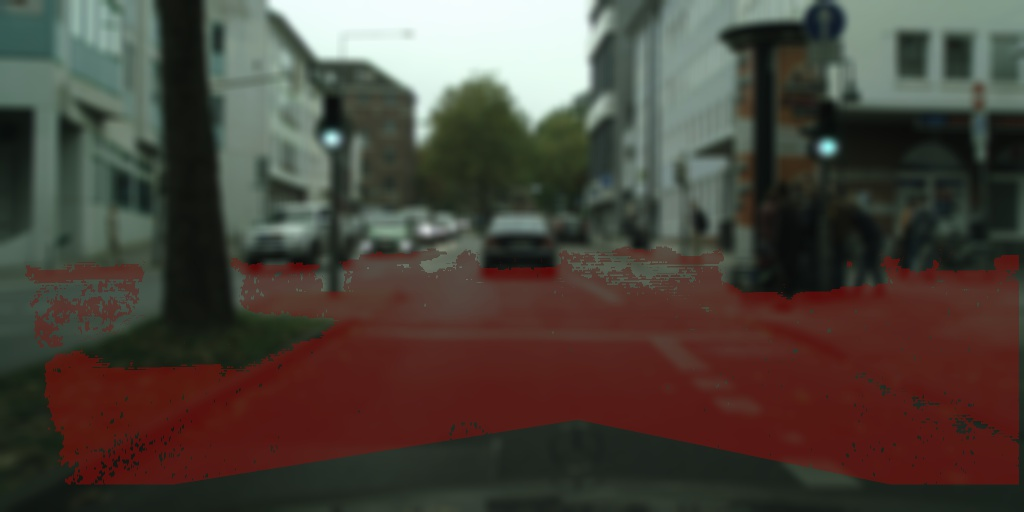
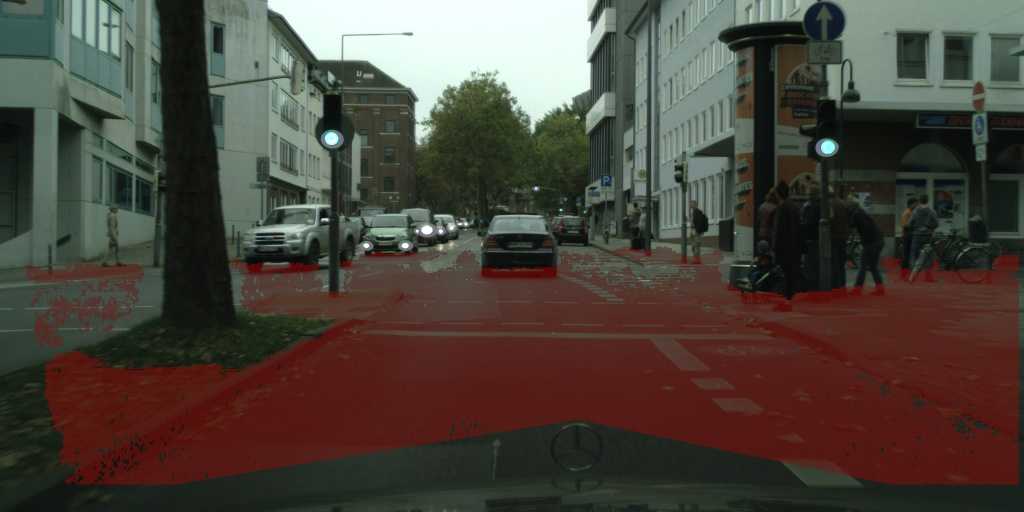
Output unblurred image

diff --git a/project/src/data_structures/projectData.cpp b/project/src/data_structures/projectData.cpp
@@ -21,14 +21,16 @@ projectData::projectData(string filename, int disparityGaussianBlur, int left_im
 	this->cameraMatrix = cameraMatrix;
 
 	// Read left image.
+	Mat leftImage_unblurred = imread(filename + "_leftImg8bit.png");
+	this->leftImage_unblurred = leftImage_unblurred;
 	Mat leftImage = imread(filename + "_leftImg8bit.png");
 	if (left_imageGaussianBlur != 0) {
 		Mat leftImageBlured;
 		GaussianBlur(leftImage, leftImageBlured, Size(left_imageGaussianBlur, left_imageGaussianBlur), 10);
-		this->leftImage = leftImageBlured;
+		this->leftImage_blurred = leftImageBlured;
 	}
 	else {
-		this->leftImage = leftImage;
+		this->leftImage_blurred = leftImage;
 	}
 
 	// Read and smoothen disparity.
@@ -46,8 +48,12 @@ Matx33d projectData::getCameraMatrix() {
 	return cameraMatrix;
 };
 
-Mat projectData::getLeftImage() {
-	return leftImage;
+Mat projectData::getLeftImageBlurred() {
+	return leftImage_blurred;
+};
+
+Mat projectData::getLeftImageUnblurred() {
+	return leftImage_unblurred;
 };
 
 Mat projectData::getDisparity() {
@@ -80,14 +86,14 @@ point3dCloud projectData::pointCloudFromData() {
 	point3dCloud pointcloud; // The returned point3dCloud.
 
 	// Loop over the image.
-	for (int i = 0; i < leftImage.rows; i++) {
-		for (int j = 0; j < leftImage.cols; j++) {
+	for (int i = 0; i < leftImage_blurred.rows; i++) {
+		for (int j = 0; j < leftImage_blurred.cols; j++) {
 			double d = disparity.at<float>(i, j);
-			if (hasToBeTreated(i, j, d, leftImage)) { // Adapt threshold for more/less 3d points.
+			if (hasToBeTreated(i, j, d, leftImage_blurred)) { // Adapt threshold for more/less 3d points.
 													  // Compute coordinates + color of 3D point ( 1 matrix multiplication ).
 				Mat pos_image = (Mat1d(3, 1) << i, j, 1.0);
 				Vec3d position = (1 / d) * cameraMatrix * pos_image;
-				Vec3b color = leftImage.at<Vec3b>(i, j);
+				Vec3b color = leftImage_blurred.at<Vec3b>(i, j);
 
 				// Add point to point cloud.
 				pointcloud.push_back(point3d(position, color, make_pair(i, j)));

diff --git a/project/main.cpp b/project/main.cpp
@@ -68,7 +68,7 @@ int main(){
 	
 	// Show found plane on image.
 	point3dCloud pointcloudRoad = rRoadResult.first;
-	pointcloudRoad.showOnImage(data.getLeftImage(), true, true, "../reports/images/Result_image_road.jpg");
+	pointcloudRoad.showOnImage(data.getLeftImageUnblurred(), true, true, "../reports/images/Result_image_road.jpg");
 
 	// Export result as .ply file.
 	cout << "Exporting road point cloud as 3dcloud_road.ply ... ";
@@ -92,7 +92,7 @@ int main(){
 	cout << "Exported." << endl;
 
 	// Show found vertical object on image.
-	pointcloudVO_ransac.showOnImage(data.getLeftImage(), true, true, "../reports/images/Result_image_vertical.jpg");
+	pointcloudVO_ransac.showOnImage(data.getLeftImageUnblurred(), true, true, "../reports/images/Result_image_vertical.jpg");
 
 
 	/*----------------------------------------------
@@ -101,7 +101,7 @@ int main(){
 	cout << endl << "4. DETECTION OF VERTICAL OBJECTS USING CLUSTERING." << endl;
 	// Access data to get a clean version of the left image.
 	data = projectData("../project/input/example_input/aachen_000029_000019", DISPARITY_GAUSSIAN_BLUR, LEFT_IMAGE_GAUSSIAN_BLUR);
-	pointcloudRoad.showOnImage(data.getLeftImage(), false);
+	pointcloudRoad.showOnImage(data.getLeftImageUnblurred(), false);
 
 	// Changing the base of coordinates to set the x axis as the altitude. It allows us to contract the altitude in the computation of kMeans.
 	rRoadResult.second.changeBase(planeRoad.getABase());
@@ -143,7 +143,7 @@ int main(){
 	vector<point3dCloud> clusters = c.getClusters();
 	for (int i = 0; i < clusters.size(); i++) {
 		clusters[i].setColor(COLORS[(i+1)%COLORS.size()]);
-		clusters[i].showOnImage(data.getLeftImage(), i == clusters.size() - 1, i == clusters.size() - 1, "../reports/images/Result_image_vertical_clustering.jpg");
+		clusters[i].showOnImage(data.getLeftImageUnblurred(), i == clusters.size() - 1, i == clusters.size() - 1, "../reports/images/Result_image_vertical_clustering.jpg");
 	}
 	
 	// End program.

diff --git a/project/performance_evaluation.cpp b/project/performance_evaluation.cpp
@@ -118,7 +118,7 @@ int main() {
 		t_loc = clock();
 
 		// Show found plane on image.
-		(rRoadResult.first).showOnImage(data.getLeftImage(), false);
+		(rRoadResult.first).showOnImage(data.getLeftImageUnblurred(), false);
 
 
 
@@ -134,7 +134,7 @@ int main() {
 		t_loc = clock();
 
 		// Show found vertical object on image.
-		pointcloudVO_ransac.showOnImage(data.getLeftImage(), false, true, "../project/output/performance_evaluation/images/ransac/leverkusen_" + num + "_000019.jpg");
+		pointcloudVO_ransac.showOnImage(data.getLeftImageUnblurred(), false, true, "../project/output/performance_evaluation/images/ransac/leverkusen_" + num + "_000019.jpg");
 		
 
 
@@ -180,7 +180,7 @@ int main() {
 		vector<point3dCloud> clusters = c.getClusters();
 		for (int i = 0; i < clusters.size(); i++) {
 			clusters[i].setColor(COLORS[(i + 1) % COLORS.size()]);
-			clusters[i].showOnImage(data.getLeftImage(), false, i == clusters.size() - 1, "../project/output/performance_evaluation/images/clustering/leverkusen_" + num + "_000019.jpg");
+			clusters[i].showOnImage(data.getLeftImageUnblurred(), false, i == clusters.size() - 1, "../project/output/performance_evaluation/images/clustering/leverkusen_" + num + "_000019.jpg");
 		}
 		
 

diff --git a/project/include/projectData.hpp b/project/include/projectData.hpp
@@ -26,7 +26,8 @@ class projectData {
 private:
 	string filename;
 	Matx33d cameraMatrix;
-	Mat leftImage;
+	Mat leftImage_blurred;
+	Mat leftImage_unblurred;
 	Mat disparity;
 
 public:
@@ -45,10 +46,16 @@ public:
 	Matx33d getCameraMatrix();
 
 	/**
-	* A method to get the left image.
-	* @return The left image.
+	* A method to get the blurred left image.
+	* @return The blurred  left image.
 	*/
-	Mat getLeftImage();
+	Mat getLeftImageBlurred();
+
+	/**
+	* A method to get the unblurred left image.
+	* @return The unblurred left image.
+	*/
+	Mat getLeftImageUnblurred();
 
 	/**
 	* A method to get the disparity.
